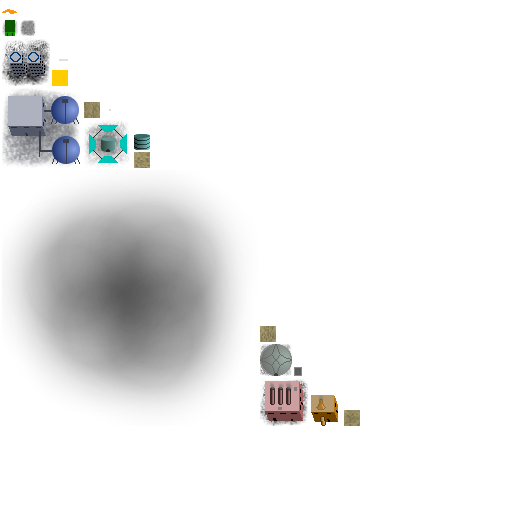
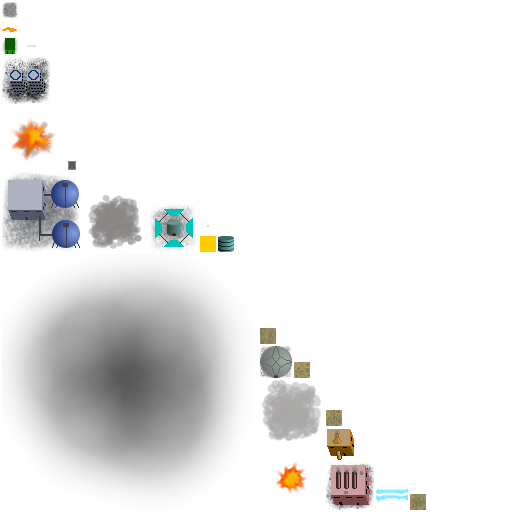
New lightning and explosions

Changed region(s): [[0.0, 0.0, 0.4688, 0.9688], [0.5, 0.625, 0.8438, 1.0], [0.5312, 0.9062, 0.5938, 0.9688]]

diff --git a/core/src/info/quadtree/ld39/Lightning.java b/core/src/info/quadtree/ld39/Lightning.java
@@ -3,18 +3,20 @@ package info.quadtree.ld39;
 import java.util.ArrayList;
 import java.util.List;
 
-import com.badlogic.gdx.graphics.glutils.ShapeRenderer.ShapeType;
+import com.badlogic.gdx.graphics.g2d.Sprite;
 import com.badlogic.gdx.math.MathUtils;
 import com.badlogic.gdx.math.Vector2;
 
 public class Lightning extends VisualEffect {
 
+	static Sprite sp;
 	Vector2 end;
+
 	public float endWidth = 2;
 
 	public float fade = 1;
-
 	Vector2 start;
+
 	public float startWidth = 2;
 
 	float[] vertArr = null;
@@ -30,6 +32,9 @@ public class Lightning extends VisualEffect {
 	@Override
 	public void render() {
 		super.render();
+
+		if (sp == null)
+			sp = LD39.s.atlas.createSprite("lightning1");
 
 		if (vertArr == null) {
 			Vector2 curPos = new Vector2(start);
@@ -64,10 +69,33 @@ public class Lightning extends VisualEffect {
 				vertArr[i] = verts.get(i);
 		}
 
-		LD39.s.shapeRnd.begin(ShapeType.Line);
-		LD39.s.shapeRnd.setColor(0.3f, 0.3f, 1.f, fade);
-		LD39.s.shapeRnd.polyline(vertArr);
-		LD39.s.shapeRnd.end();
+		if (vertArr != null) {
+			for (int i = 2; i < vertArr.length; i += 2) {
+
+				float dist = Vector2.dst(vertArr[i - 2], vertArr[i - 1], vertArr[i], vertArr[i + 1]);
+				float pct = (float) i / vertArr.length;
+				float width = (pct * endWidth) + ((1 - pct) * startWidth);
+
+				sp.setColor(1, 1, 1, fade);
+				sp.setPosition((vertArr[i - 2] + vertArr[i]) / 2 - 16, (vertArr[i - 1] + vertArr[i + 1]) / 2 - 16);
+				sp.setRotation(MathUtils.atan2(vertArr[i + 1] - vertArr[i - 1], vertArr[i] - vertArr[i - 2]) * 180 / MathUtils.PI);
+				sp.setOrigin(16, 16);
+				sp.setScale(dist / 16, width / 16 * 3);
+				sp.draw(LD39.s.batch);
+
+				// LD39.s.batch.draw(sp, vertArr[i - 2] + vertArr[i], vertArr[i
+				// - 1] + vertArr[i + 1], 16, 16, 32, 32, dist / 16, width / 16
+				// * 3,
+				// MathUtils.atan2(vertArr[i + 1] - vertArr[i - 1], vertArr[i] -
+				// vertArr[i - 2]) * 180 / MathUtils.PI);
+			}
+		}
+
+		/*
+		 * LD39.s.shapeRnd.begin(ShapeType.Line); LD39.s.shapeRnd.setColor(0.3f,
+		 * 0.3f, 1.f, fade); LD39.s.shapeRnd.polyline(vertArr);
+		 * LD39.s.shapeRnd.end();
+		 */
 	}
 
 	public void setEnd(Vector2 end) {

diff --git a/core/src/info/quadtree/ld39/ExplosionParticle.java b/core/src/info/quadtree/ld39/ExplosionParticle.java
@@ -1,0 +1,59 @@
+package info.quadtree.ld39;
+
+import com.badlogic.gdx.graphics.Color;
+import com.badlogic.gdx.graphics.g2d.Sprite;
+import com.badlogic.gdx.math.Vector2;
+
+public class ExplosionParticle extends VisualEffect {
+
+	static Sprite[] sprites = null;
+
+	float phase = 0;
+
+	Vector2 pos;
+	Vector2 vel;
+
+	public ExplosionParticle(float phase, Vector2 pos, Vector2 vel) {
+		super();
+		this.phase = phase;
+		this.pos = pos.cpy();
+		this.vel = vel.cpy();
+	}
+
+	@Override
+	public void render() {
+		super.render();
+
+		if (sprites == null) {
+			sprites = new Sprite[4];
+			for (int i = 0; i < 4; ++i) {
+				sprites[i] = LD39.s.atlas.createSprite("exp" + (i + 1));
+			}
+		}
+
+		Sprite sp = sprites[Math.min((int) (phase * 4), 3)];
+		if (phase < 1.5) {
+			sp.setColor(Color.WHITE);
+		} else {
+			sp.setColor(1, 1, 1, (float) (1 - ((phase - 1.5) * 2)));
+		}
+
+		sp.setPosition(pos.x - sp.getWidth() / 2, pos.y - sp.getHeight() / 2);
+		sp.setScale(0.4f);
+		sp.draw(LD39.s.batch);
+	}
+
+	@Override
+	public void update() {
+		super.update();
+
+		phase += 1.f / 15.f;
+
+		if (phase >= 0.99)
+			keep = false;
+
+		pos.add(vel);
+		vel.scl(0.4f);
+	}
+
+}

diff --git a/core/src/info/quadtree/ld39/Thundercloud.java b/core/src/info/quadtree/ld39/Thundercloud.java
@@ -32,13 +32,18 @@ public class Thundercloud {
 		pos.x += 3;
 
 		if (MathUtils.random(60 * 5) == 0) {
-			TilePos target = TilePos.create((int) ((pos.x + MathUtils.random(-64, 64)) / 16), (int) ((pos.y + MathUtils.random(-64, 64)) / 16));
+			TilePos target = TilePos.create((int) ((pos.x + MathUtils.random(-64, 64)) / LD39.TILE_SIZE), (int) ((pos.y + MathUtils.random(-64, 64)) / LD39.TILE_SIZE));
 
 			Lightning lg = new Lightning();
-			lg.end = new Vector2(target.x * LD39.TILE_SIZE, target.y * LD39.TILE_SIZE);
+			lg.end = new Vector2(target.toVector2());
 			lg.start = pos.cpy().add(new Vector2(0, 1200));
 			lg.startWidth = 20;
 			LD39.s.gs.addVisualEffect(lg);
+
+			for (int i = 0; i < 5; ++i) {
+				ExplosionParticle ep = new ExplosionParticle(0, target.toVector2().add(MathUtils.random(-10, 10), MathUtils.random(-10, 10)), new Vector2(MathUtils.random(-10, 10), MathUtils.random(-10, 10)));
+				LD39.s.gs.addVisualEffect(ep);
+			}
 
 			LD39.s.gs.powerSurge(target);
 		}

diff --git a/core/src/info/quadtree/ld39/Building.java b/core/src/info/quadtree/ld39/Building.java
@@ -8,6 +8,7 @@ import java.util.PriorityQueue;
 import java.util.Set;
 
 import com.badlogic.gdx.graphics.g2d.Sprite;
+import com.badlogic.gdx.math.MathUtils;
 import com.badlogic.gdx.math.Vector2;
 
 public abstract class Building {
@@ -177,6 +178,17 @@ public abstract class Building {
 
 		if (Math.random() < getSurgeDestructionOdds()) {
 			alive = false;
+
+			for (int x = 0; x < getSize().x; ++x) {
+				for (int y = 0; y < getSize().y; ++y) {
+					TilePos tp = TilePos.create(pos.x + x, pos.y + y);
+
+					for (int i = 0; i < 10; ++i) {
+						ExplosionParticle ep = new ExplosionParticle(0, tp.toVector2().add(MathUtils.random(-10, 10), MathUtils.random(-10, 10)), new Vector2(MathUtils.random(-20, 20), MathUtils.random(-20, 20)));
+						LD39.s.gs.addVisualEffect(ep);
+					}
+				}
+			}
 
 			int surgeProtectors = 0;
 

diff --git a/core/src/info/quadtree/ld39/GameState.java b/core/src/info/quadtree/ld39/GameState.java
@@ -388,10 +388,10 @@ public class GameState implements InputProcessor {
 			tc.render();
 		}
 
-		LD39.s.batch.end();
-
 		for (VisualEffect ve : visualEffects)
 			ve.render();
+
+		LD39.s.batch.end();
 
 		LD39.s.batch.begin();
 		LD39.s.mainFont.draw(LD39.s.batch, "Credits: " + (int) money, 20, Gdx.graphics.getHeight() - 40);
